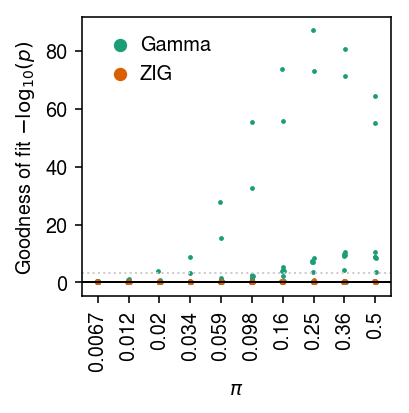
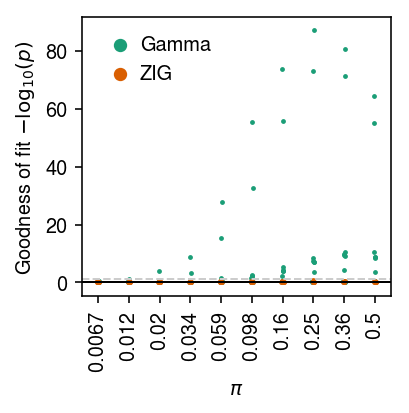
Plot zoomed-in simulation results

diff --git a/docs/gof.html b/docs/gof.html
@@ -1,7 +1,7 @@
 <!DOCTYPE html>
 <html lang="en">
 <head>
-<!-- 2019-09-24 Tue 14:40 -->
+<!-- 2019-09-24 Tue 15:01 -->
 <meta charset="utf-8">
 <meta name="viewport" content="width=device-width, initial-scale=1">
 <title>Goodness of fit of deconvolved distributions</title>
@@ -262,7 +262,7 @@ for the JavaScript code in this tag.
 <li><a href="#setup">Setup</a></li>
 <li><a href="#org9458460">Methods</a>
 <ul>
-<li><a href="#org2b33d2a">Test for goodness of fit</a></li>
+<li><a href="#orgd695d16">Test for goodness of fit</a></li>
 <li><a href="#orgfd5c235">Data</a></li>
 </ul>
 </li>
@@ -338,9 +338,9 @@ Here, we directly test for the goodness of fit of the estimated distribution
 <h2 id="org9458460">Methods</h2>
 <div class="outline-text-2" id="text-org9458460">
 </div>
-<div id="outline-container-org2b33d2a" class="outline-3">
-<h3 id="org2b33d2a">Test for goodness of fit</h3>
-<div class="outline-text-3" id="text-org2b33d2a">
+<div id="outline-container-orgd695d16" class="outline-3">
+<h3 id="orgd695d16">Test for goodness of fit</h3>
+<div class="outline-text-3" id="text-orgd695d16">
 <p>
 The key idea underlying our test for goodness of fit is the fact that if
 \(x_{i} \sim F(\cdot)\), then \(F(x_{i}) \sim \operatorname{Uniform}(0,
@@ -483,6 +483,24 @@ Run the simulation.
 </div>
 
 <p>
+Write out the results.
+</p>
+
+<div class="org-src-container">
+<pre class="src src-ipython">sim_res.to_csv(<span class="org-string">'/project2/mstephens/aksarkar/projects/singlecell-modes/data/gof/simulation.txt.gz'</span>, sep=<span class="org-string">'\t'</span>, compression=<span class="org-string">'gzip'</span>)
+</pre>
+</div>
+
+<p>
+Read the results.
+</p>
+
+<div class="org-src-container">
+<pre class="src src-ipython"><span class="org-variable-name">sim_results</span> = pd.read_csv(<span class="org-string">'/project2/mstephens/aksarkar/projects/singlecell-modes/data/gof/simulation.txt.gz'</span>, sep=<span class="org-string">'\t'</span>, compression=<span class="org-string">'gzip'</span>, index_col=0)
+</pre>
+</div>
+
+<p>
 Plot the results.
 </p>
 
@@ -494,7 +512,7 @@ plt.gcf().set_size_inches(3, 3)
   <span class="org-variable-name">jitter</span> = np.random.normal(scale=0.01, size=sim_res.shape[0])
   plt.scatter(sim_res[<span class="org-string">'logodds'</span>] + jitter, -np.log10(sim_res[k]), s=2, c=np.atleast_2d(cm(i)), label=l)
 plt.axhline(y=0, c=<span class="org-string">'k'</span>, lw=1)
-plt.axhline(y=-np.log10(.05 / sim_res.shape[0]), c=<span class="org-string">'0.8'</span>, ls=<span class="org-string">':'</span>, lw=1)
+plt.axhline(y=-np.log10(.05), c=<span class="org-string">'0.8'</span>, ls=<span class="org-string">'--'</span>, lw=1)
 plt.legend(frameon=<span class="org-constant">False</span>, handletextpad=0, markerscale=4)
 plt.xticks(np.linspace(-5, 0, 10), [f<span class="org-string">'{x:.2g}'</span> <span class="org-keyword">for</span> x <span class="org-keyword">in</span> sp.expit(np.linspace(-5, 0, 10))], rotation=90)
 plt.xlabel(<span class="org-string">'$\pi$'</span>)
@@ -508,11 +526,40 @@ plt.tight_layout()
 <p><img src="figure/gof.org/sim.png" alt="sim.png">
 </p>
 </div>
+
+<p>
+Plot a zoomed-in version of the results.
+</p>
+
+<div class="org-src-container">
+<pre class="src src-ipython"><span class="org-variable-name">cm</span> = plt.get_cmap(<span class="org-string">'Dark2'</span>)
+plt.clf()
+plt.gcf().set_size_inches(3, 3)
+<span class="org-keyword">for</span> i, (k, l) <span class="org-keyword">in</span> <span class="org-builtin">enumerate</span>(<span class="org-builtin">zip</span>([<span class="org-string">'gamma'</span>, <span class="org-string">'zig'</span>], [<span class="org-string">'Gamma'</span>, <span class="org-string">'ZIG'</span>])):
+  <span class="org-variable-name">jitter</span> = np.random.normal(scale=0.01, size=sim_res.shape[0])
+  plt.scatter(sim_res[<span class="org-string">'logodds'</span>] + jitter, -np.log10(sim_res[k]), s=2, c=np.atleast_2d(cm(i)), label=l)
+plt.axhline(y=0, c=<span class="org-string">'k'</span>, lw=1)
+plt.axhline(y=-np.log10(.05), c=<span class="org-string">'0.8'</span>, ls=<span class="org-string">'--'</span>, lw=1)
+plt.legend(frameon=<span class="org-constant">False</span>, handletextpad=0, markerscale=4)
+plt.xticks(np.linspace(-5, 0, 10), [f<span class="org-string">'{x:.2g}'</span> <span class="org-keyword">for</span> x <span class="org-keyword">in</span> sp.expit(np.linspace(-5, 0, 10))], rotation=90)
+plt.xlabel(<span class="org-string">'$\pi$'</span>)
+plt.ylim(0, 10)
+plt.ylabel(<span class="org-string">'Goodness of fit $-\log_{10}(p)$'</span>)
+plt.tight_layout()
+</pre>
+</div>
+
+
+<div class="figure">
+<p><img src="figure/gof.org/sim-inset.png" alt="sim-inset.png">
+</p>
+</div>
 </div>
 </div>
 
-<div id="outline-container-org0632aaa" class="outline-3">
-<h3 id="gof"><a id="org0632aaa"></a>Test for goodness of fit</h3>
+
+<div id="outline-container-orgaba6c3d" class="outline-3">
+<h3 id="gof"><a id="orgaba6c3d"></a>Test for goodness of fit</h3>
 <div class="outline-text-3" id="text-gof">
 <p>
 Run the GPU-based methods.
@@ -790,7 +837,7 @@ fig.tight_layout()
 </div>
 <div id="postamble" class="status">
 <p class="author">Author: Abhishek Sarkar</p>
-<p class="date">Created: 2019-09-24 Tue 14:40</p>
+<p class="date">Created: 2019-09-24 Tue 15:01</p>
 <p class="validation"><a href="http://validator.w3.org/check?uri=referer">Validate</a></p>
 </div>
 </body>
